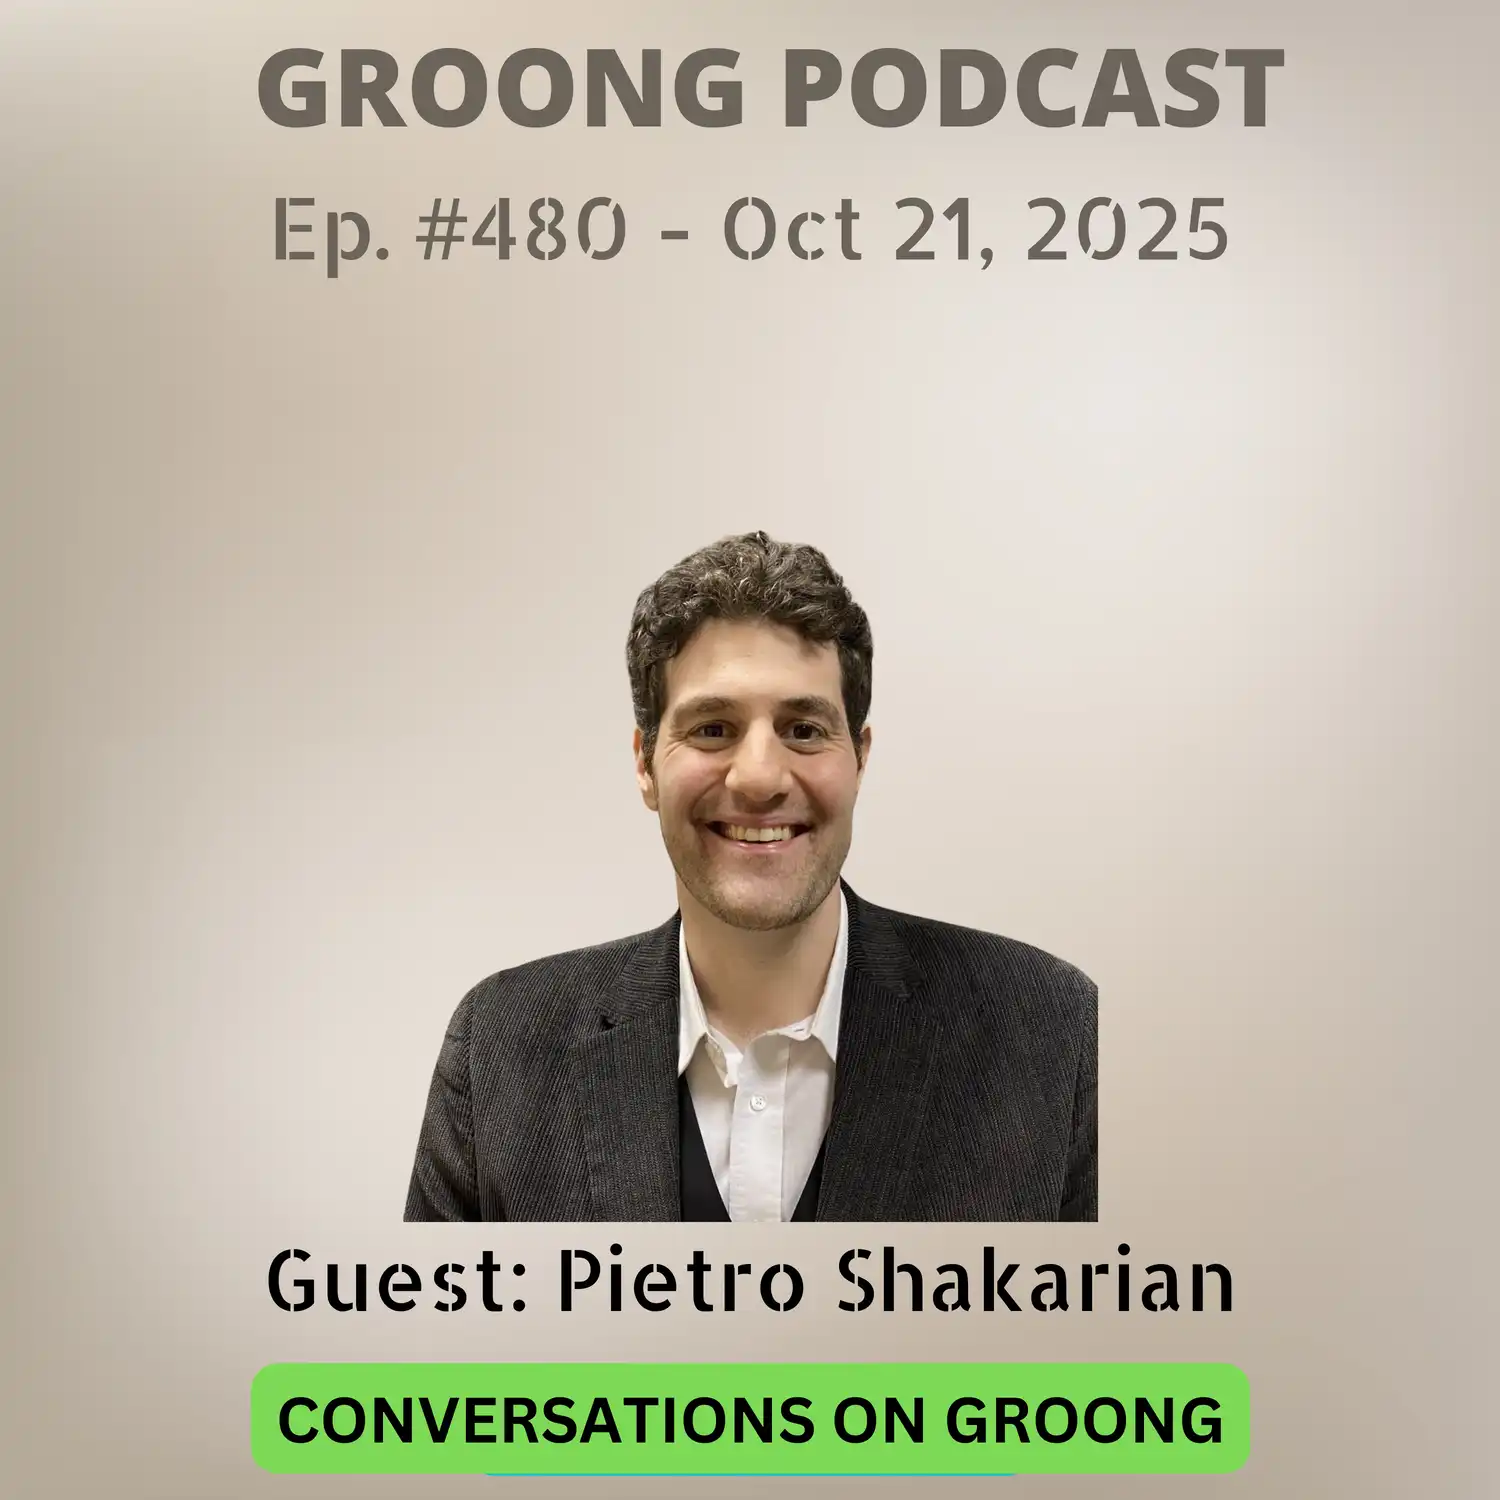
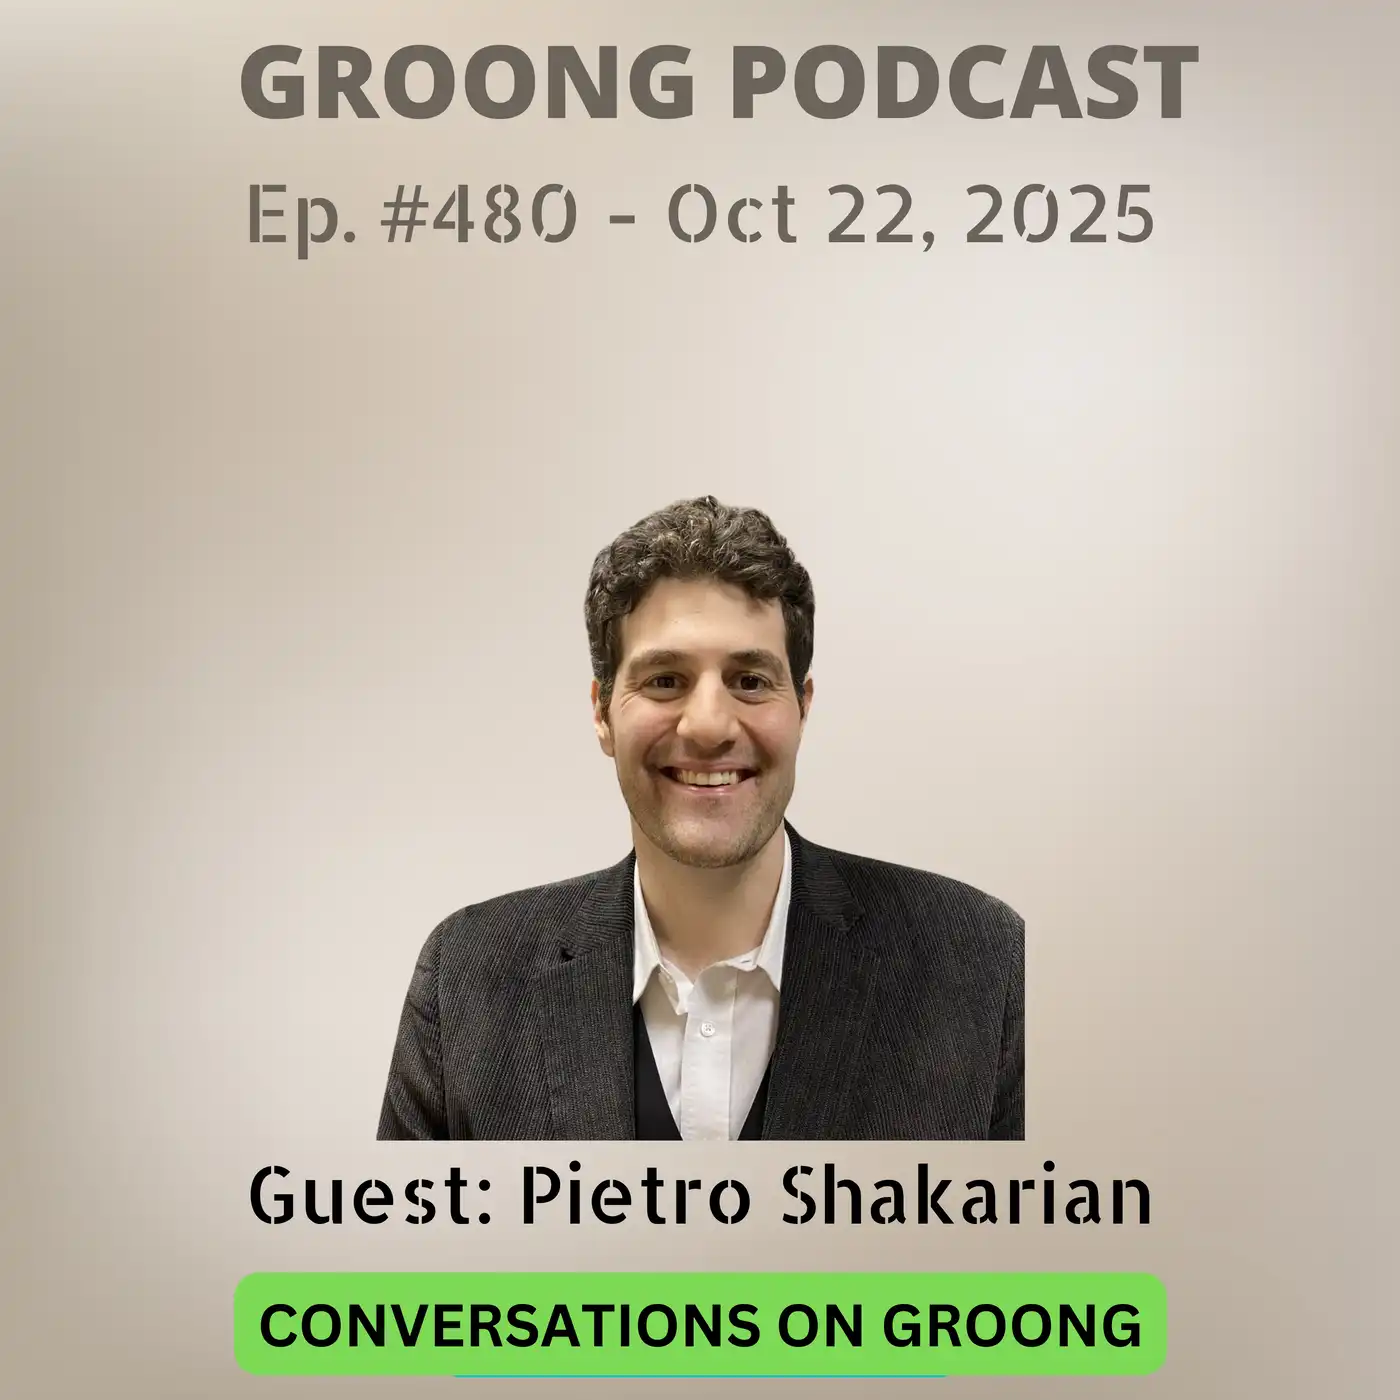
Updating EP 480

Changed region(s): [[0.4607, 0.1229, 0.8293, 0.1843], [0.1536, 0.1229, 0.43, 0.1843]]

diff --git a/content/episode/480-pietro-shakarian-anastas-mikoyan-an-armenian-reformer-in-khrushchevs-kremlin.md b/content/episode/480-pietro-shakarian-anastas-mikoyan-an-armenian-reformer-in-khrushchevs-kremlin.md
@@ -1,8 +1,8 @@
 +++
-date = 2025-10-21T11:12:01
+Date = 2025-10-22T04:00:00-07:00
 upcoming = true
 
-title = "Pietro Shakarian - Anastas Mikoyan, An Armenian Reformer in Khrushchev's Kremlin| Ep 480, Oct 21, 2025"
+title = "Pietro Shakarian - Anastas Mikoyan, An Armenian Reformer in Khrushchev's Kremlin| Ep 480, Oct 22, 2025"
 subtitle = "Conversations on Groong - Recorded on: October 18, 2025"
 author = "Armenian News Network - Groong"
 
